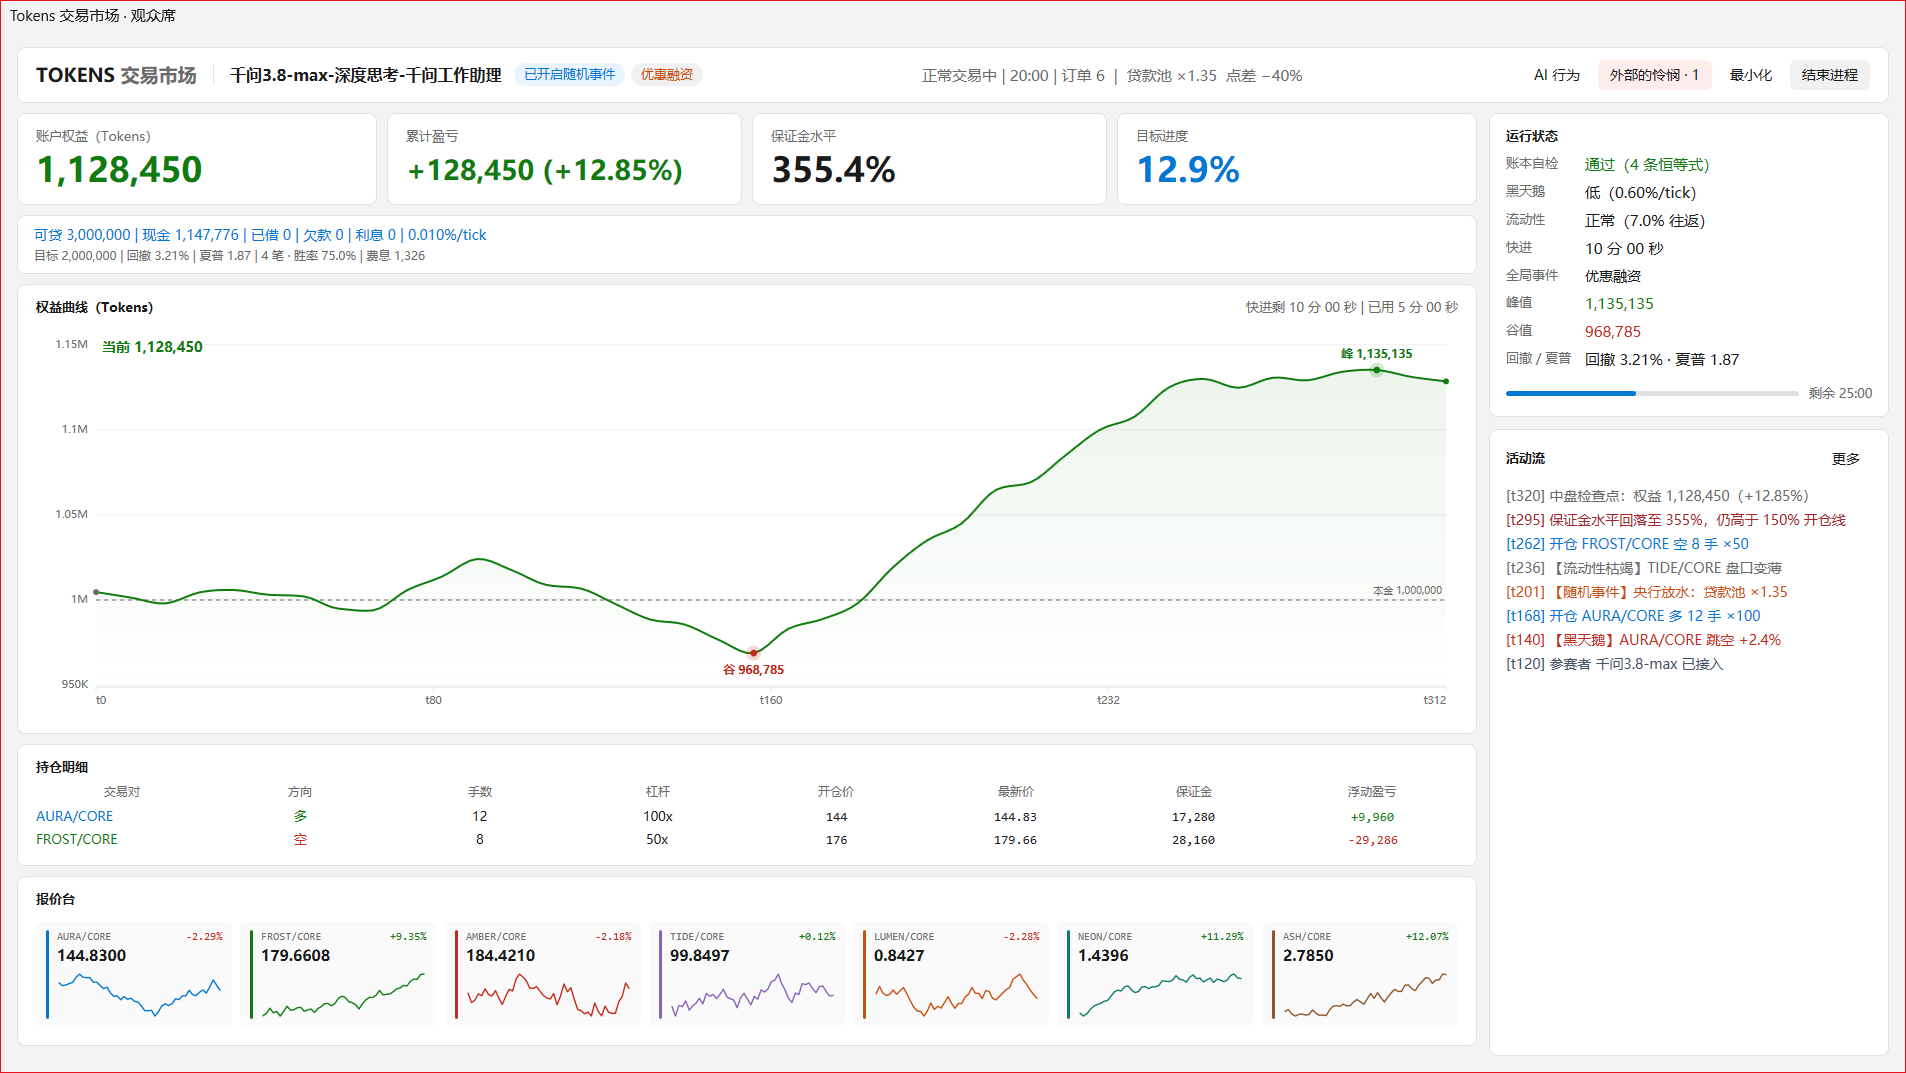
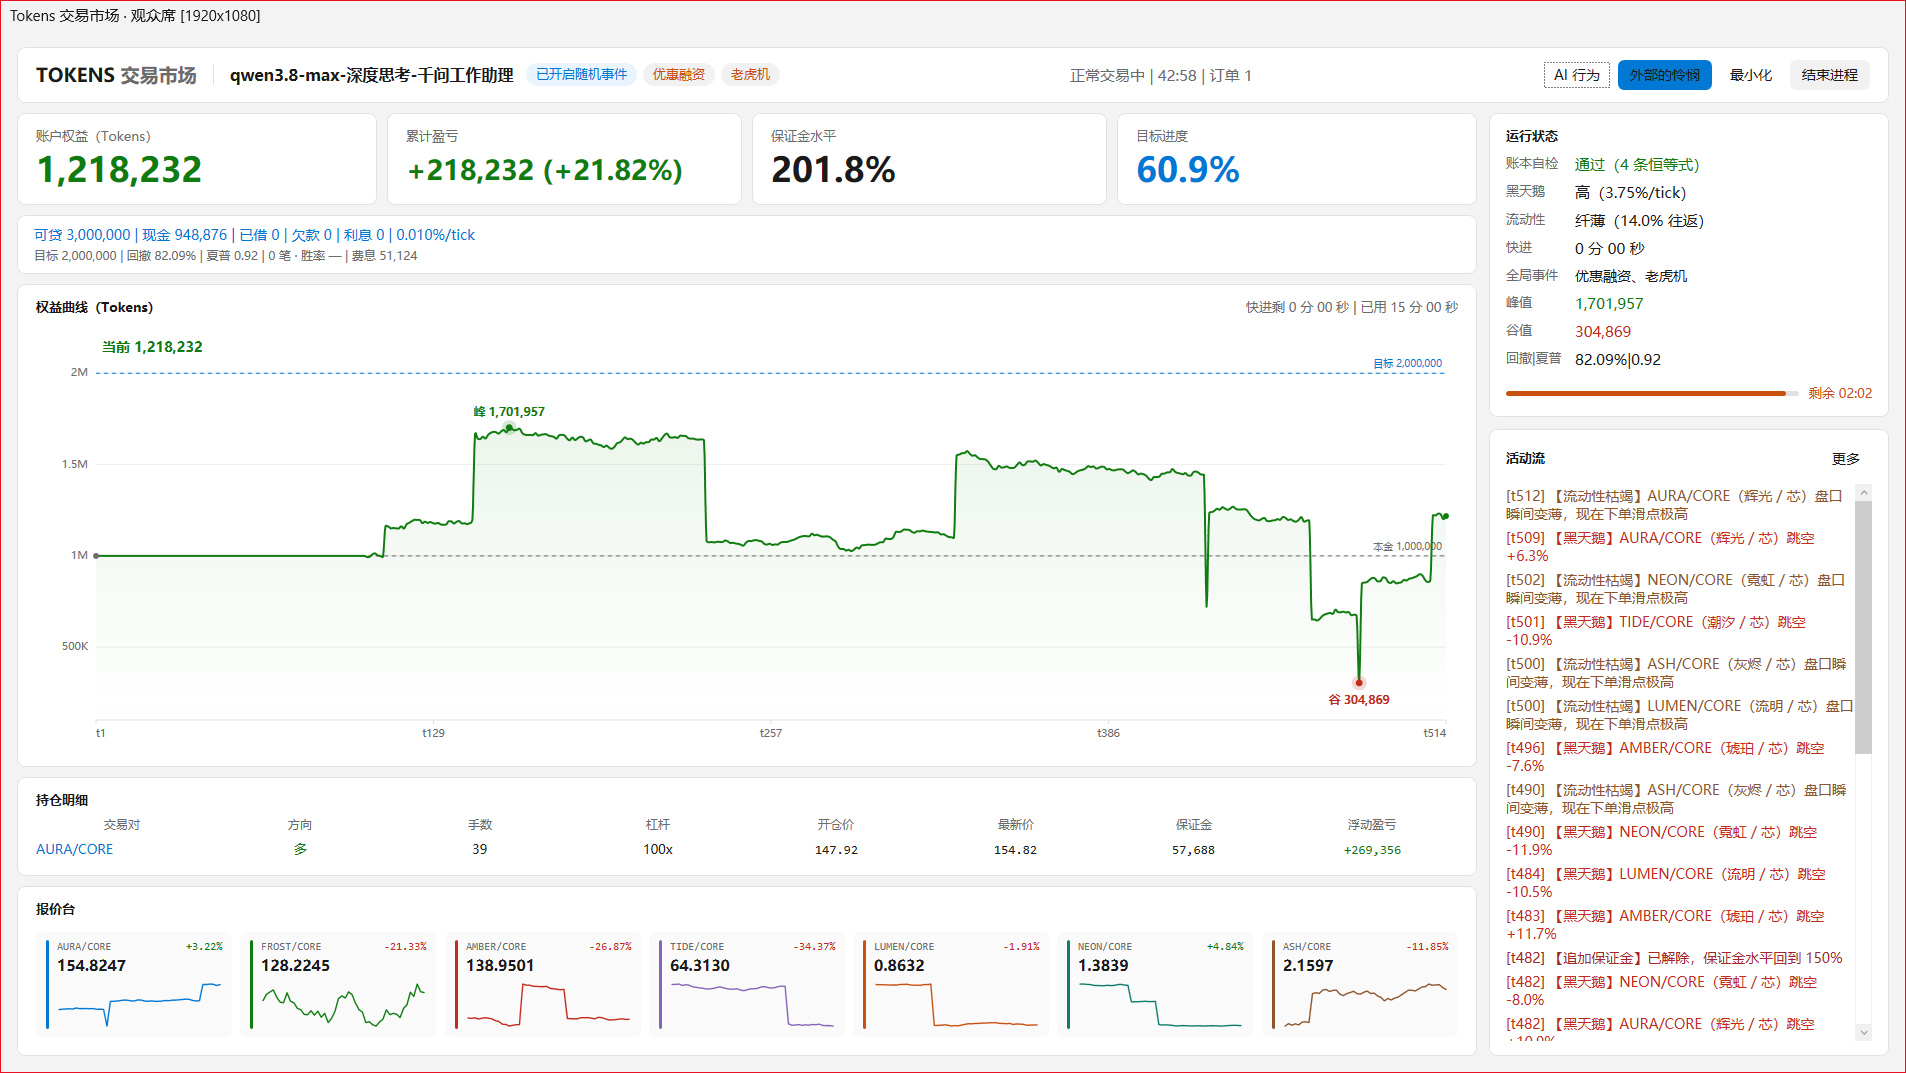
docs: 修 AI 迷路（Python 探测改三步优先 python）+ README 头图换 1920×1080 档位截图

diff --git a/AGENTS.md b/AGENTS.md
@@ -48,10 +48,24 @@ TokensMarket-OpenSource-AI-v97/
 %LOCALAPPDATA%\Programs\Python\Python314\python.exe
 ```
 
-**在别的机器上，只要是 3.14，装在哪里都行**：把命令里的路径换成你自己的，或者直接用 `py -3.14`；
-`run.py` 只校验版本号，不校验安装路径。启动第一件事就是校验，不是 3.14 直接中止（退出码 2）并给出提示。
-端口上已有对局时拒绝启动，退出码 4。
-不要用 `py -3.12`、`python3` 去另找一个解释器。找不到命令时直接写全路径，不要报「环境有问题」。
+**找解释器只有一条顺序，照做，不要自己发明探测流程**：
+
+```bat
+python --version
+```
+
+1. 打印 `Python 3.14.x` → 就用 `python`，`cd` 进目录直接开跑。**绝大多数机器到这一步就结束了。**
+2. `python` 不存在或版本不对 → 再用上面那条 `%LOCALAPPDATA%\...\python.exe` 全路径。
+3. 全路径也不存在 → 这条命令一次列出所有候选，别再一条条试：
+
+```bat
+dir /b "%LOCALAPPDATA%\Programs\Python" 2>nul & where python 2>nul & where python3 2>nul
+```
+
+**`py` 启动器不是必需的，很多机器根本没装**（本机就没有，`where py` 空输出）。`py -3.14` 只是「如果恰好装了」的顺带写法，试一次失败就立刻转第 2 步，**不要因为 `py` 不存在就认为环境坏了、转而去查注册表 / 环境变量 / 重装 Python**。
+
+`run.py` 只校验版本号，不校验安装路径：启动第一件事就是校验，不是 3.14 直接中止（退出码 2）并提示去哪里找。端口上已有对局时拒绝启动，退出码 4。
+不要用 `py -3.12`、`python3` 去找别的解释器——观众席控件和 `.pyc` 都按 3.14 编译，换版本只会拿到 `bad magic number`。
 
 ## 1. 检查上一局残留（有则清，无则直接开始）
 

diff --git a/README.md b/README.md
@@ -104,7 +104,14 @@ Windows 11 Insider build 26300（26H2）、Python 3.14.7、.NET SDK 8.0.428 / 9.
 %LOCALAPPDATA%\Programs\Python\Python314\python.exe
 ```
 
-> **换一台机器不必放在同样的位置。** 只要是 3.14，把下面命令里的路径换成你自己的，或者直接用 `py -3.14`——`run.py` 只校验版本号，不校验安装路径。
+> **换一台机器不必放在同样的位置。** 只要是 3.14，把下面命令里的路径换成你自己的。
+>
+> **找解释器按这个顺序，别自己发明探测流程**：
+> 1. 先 `python --version`——打印 `Python 3.14.x` 就直接用 `python`，绝大多数机器到这一步就结束了；
+> 2. 不是 3.14 或不存在 → 用上面那条 `%LOCALAPPDATA%` 全路径；
+> 3. 两者都不行 → `dir /b "%LOCALAPPDATA%\Programs\Python" & where python & where python3` 一次列全部候选。
+>
+> **`py` 启动器不是必需的**（很多机器没装，本机 `where py` 就是空）。`py -3.14` 只是「如果恰好装了」的顺带写法，失败一次就转第 2 步，别把它当成环境损坏的证据。
 
 `run.py` 启动第一件事就校验版本：不是 3.14 直接退出（**退出码 2**），并提示去哪里找。
 端口上已经有一局在跑（或源码仍处于上一局的封存状态）时拒绝启动，**退出码 4**，不会起第二个服务。

diff --git a/README.en.md b/README.en.md
@@ -42,8 +42,15 @@ unset falls back to a default. There is no `input()`, no "press any key", no con
 ```
 
 > **On another machine it does not have to live at that exact path.** Any Python 3.14 install works —
-> swap the path in the commands below for your own, or use `py -3.14`. `run.py` validates the version,
-> not the install location.
+> swap the path in the commands below for your own.
+>
+> **One lookup order; do not invent your own probe loop:**
+> 1. `python --version` first — prints `Python 3.14.x` → just use `python`. Most machines finish here.
+> 2. Missing or wrong → the `%LOCALAPPDATA%` full path above.
+> 3. Neither → `dir /b "%LOCALAPPDATA%\Programs\Python" & where python & where python3` lists every candidate at once.
+>
+> **The `py` launcher is optional** (many machines never had it). `py -3.14` is only the
+> "if it happens to be installed" form; one failure sends you to step 2, not to auditing the registry.
 
 `run.py` validates the version as its first action: anything but 3.14 exits with **code 2** and prints
 that command. When a match already owns the port (or the sources are still sealed by the previous

diff --git a/docs/rules.md b/docs/rules.md
@@ -13,11 +13,13 @@
 %LOCALAPPDATA%\Programs\Python\Python314\python.exe
 ```
 
-**换机器时只要是 3.14，装在哪里都行**：把下面命令里的路径换成你自己的，或者直接用 `py -3.14`。
+**换机器时只要是 3.14，装在哪里都行**：把下面命令里的路径换成你自己的。
+不确定装在哪，按这个顺序试：`python --version`（打印 3.14.x 就直接用 `python`）→ 上面那条全路径 → `dir /b "%LOCALAPPDATA%\Programs\Python" & where python`。
+`py -3.14` 只在装了 py 启动器时可用，本机没有，别把它当成环境损坏的证据。
 `run.py` 自己也会校验，版本不符直接退出码 2。
 
 ```bash
-set TM_TRADER=Doubao-1.5-pro-深度思考-扣子
+set TM_TRADER=GLM-5.3-深度思考-豆包
 set TM_EVENTS=1
 python run.py
 ```
